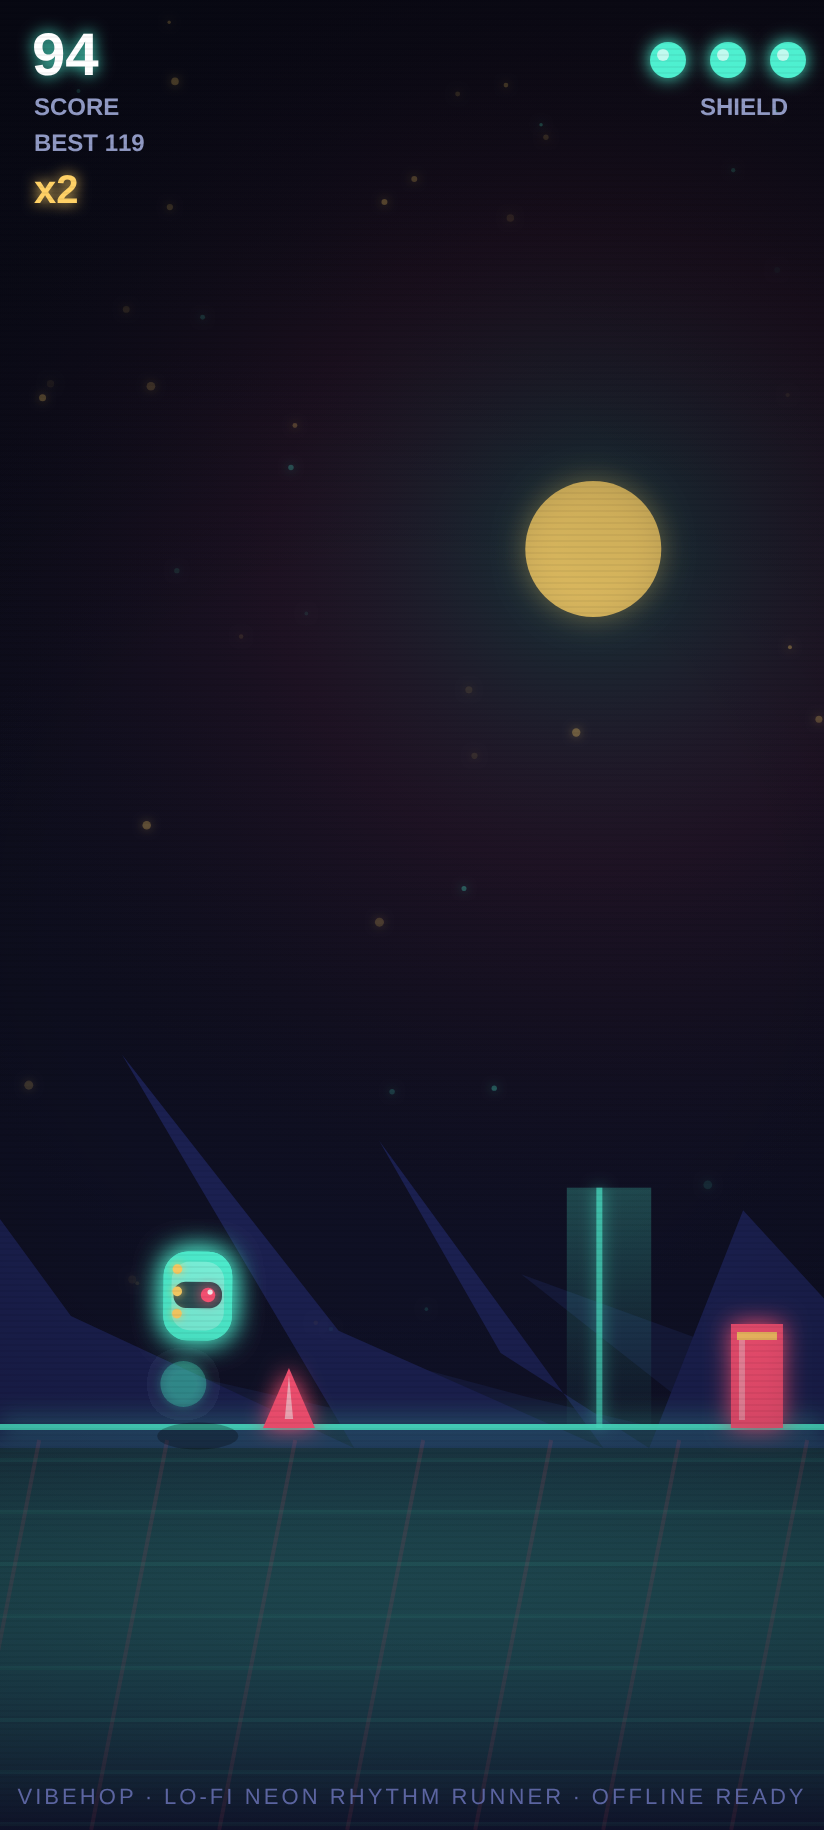
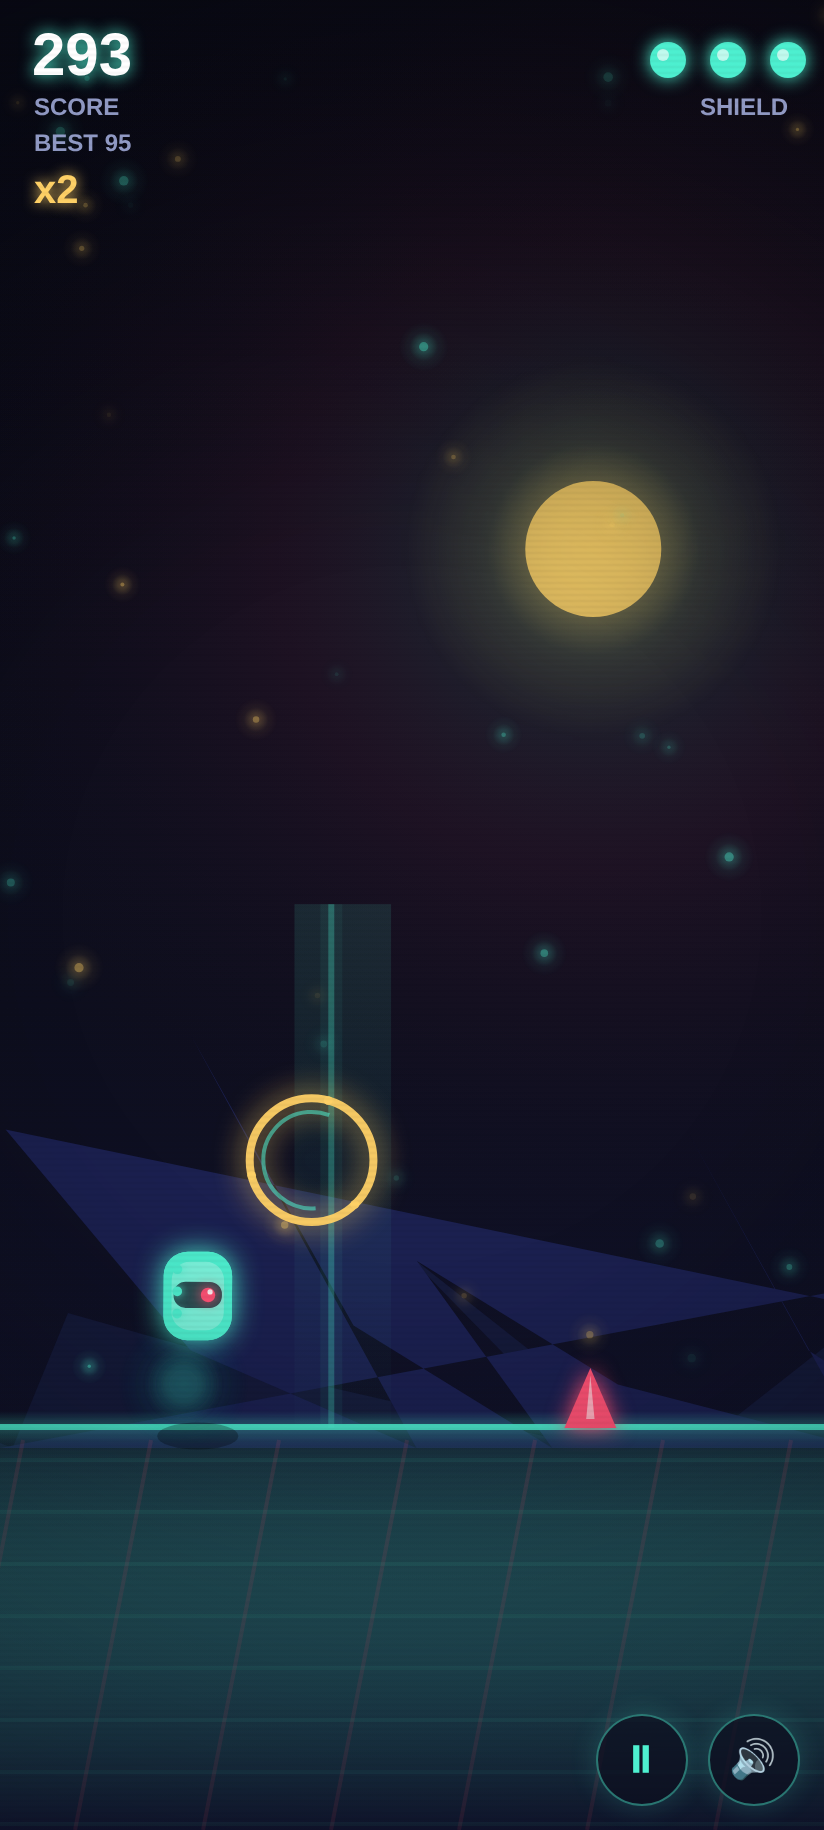
docs: refresh README/social screenshots from the shipped build; assert the new manifest+SW contract in live E2E
- docs/title.png, docs/gameplay.png, docs/og.png recaptured at 412x915@2x from the deployed build
  (gameplay now shows the on-screen pause/mute controls)
- verify-live.js: D2 asserts standalone + ./ start/scope + 192/512/maskable icons;
  D3 asserts an activated controller SW with a versioned cache holding the app shell

diff --git a/tests/verify-live.js b/tests/verify-live.js
@@ -41,11 +41,17 @@ const sleep = (ms) => new Promise(r => setTimeout(r, ms));
     const j = await r.json();
     return { status: r.status, ctype: r.headers.get('content-type'), j };
   });
+  const icons = mf.j.icons || [];
+  const has192 = icons.some(i => (i.sizes || '').includes('192x192'));
+  const hasMaskable = icons.some(i => (i.purpose || '').includes('maskable'));
+  const has512 = icons.some(i => (i.sizes || '').includes('512x512'));
   results.D2_manifest = {
     status: mf.status, name: mf.j.name, short: mf.j.short_name, start: mf.j.start_url,
     scope: mf.j.scope, display: mf.j.display, theme: mf.j.theme_color, bg: mf.j.background_color,
-    icon: { sizes: mf.j.icons[0].sizes, purpose: mf.j.icons[0].purpose, scheme: mf.j.icons[0].src.slice(0, 19) },
-    pass: mf.status === 200 && mf.j.display === 'standalone' && mf.j.icons.length === 1 && mf.j.icons[0].purpose === 'any maskable'
+    icons: icons.map(i => ({ sizes: i.sizes, purpose: i.purpose, src: i.src.slice(0, 40) })),
+    claim: 'valid JSON, standalone, ./ start+scope, 192 + 512 + maskable icons',
+    pass: mf.status === 200 && mf.j.display === 'standalone' && mf.j.start_url === './' && mf.j.scope === './'
+      && has192 && has512 && hasMaskable
   };
 
   // ---- D3: service worker registers + caches on production ----
@@ -62,7 +68,12 @@ const sleep = (ms) => new Promise(r => setTimeout(r, ms));
     }
     return { scope: reg.scope, active: !!reg.active, state: reg.active && reg.active.state, controller: !!navigator.serviceWorker.controller, names, entries };
   });
-  results.D3_service_worker = { ...sw, pass: sw.active && sw.state === 'activated' && sw.entries.length >= 3 && sw.names.includes('vibehop-v3') };
+  results.D3_service_worker = {
+    ...sw,
+    claim: 'SW active+controlling, versioned cache holds the app shell (./, index.html, manifest.json)',
+    pass: sw.active && sw.state === 'activated' && sw.controller && sw.names.some(n => /^vibehop-v\d+/.test(n))
+      && ['/vibehopper/', '/vibehopper/index.html', '/vibehopper/manifest.json'].every(u => sw.entries.includes(u))
+  };
 
   // ---- D4: gameplay — start, audio unlocks on tap ----
   await page.click('#btnStart');
